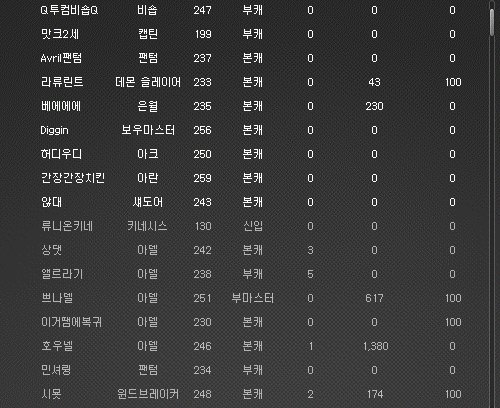
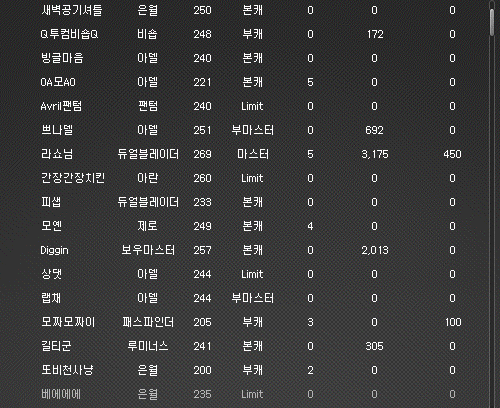
OCR 오류 개선

diff --git a/readme.md b/readme.md
@@ -319,6 +319,12 @@
     google vision 을 통한 화면캡쳐로 입력하기 기능 추가. 
     (exe파일은 안됨, python 직접 컴파일해야됨.)
 
+##### 7.3
+##### 2021.08.03
+
+    메이플 길드창 관련 버전 업데이트에 따른 OCR 기능 오류 해결
+    0점자 빨간색 처리기능 추가
+
 ### 8
 ### 그외
 
